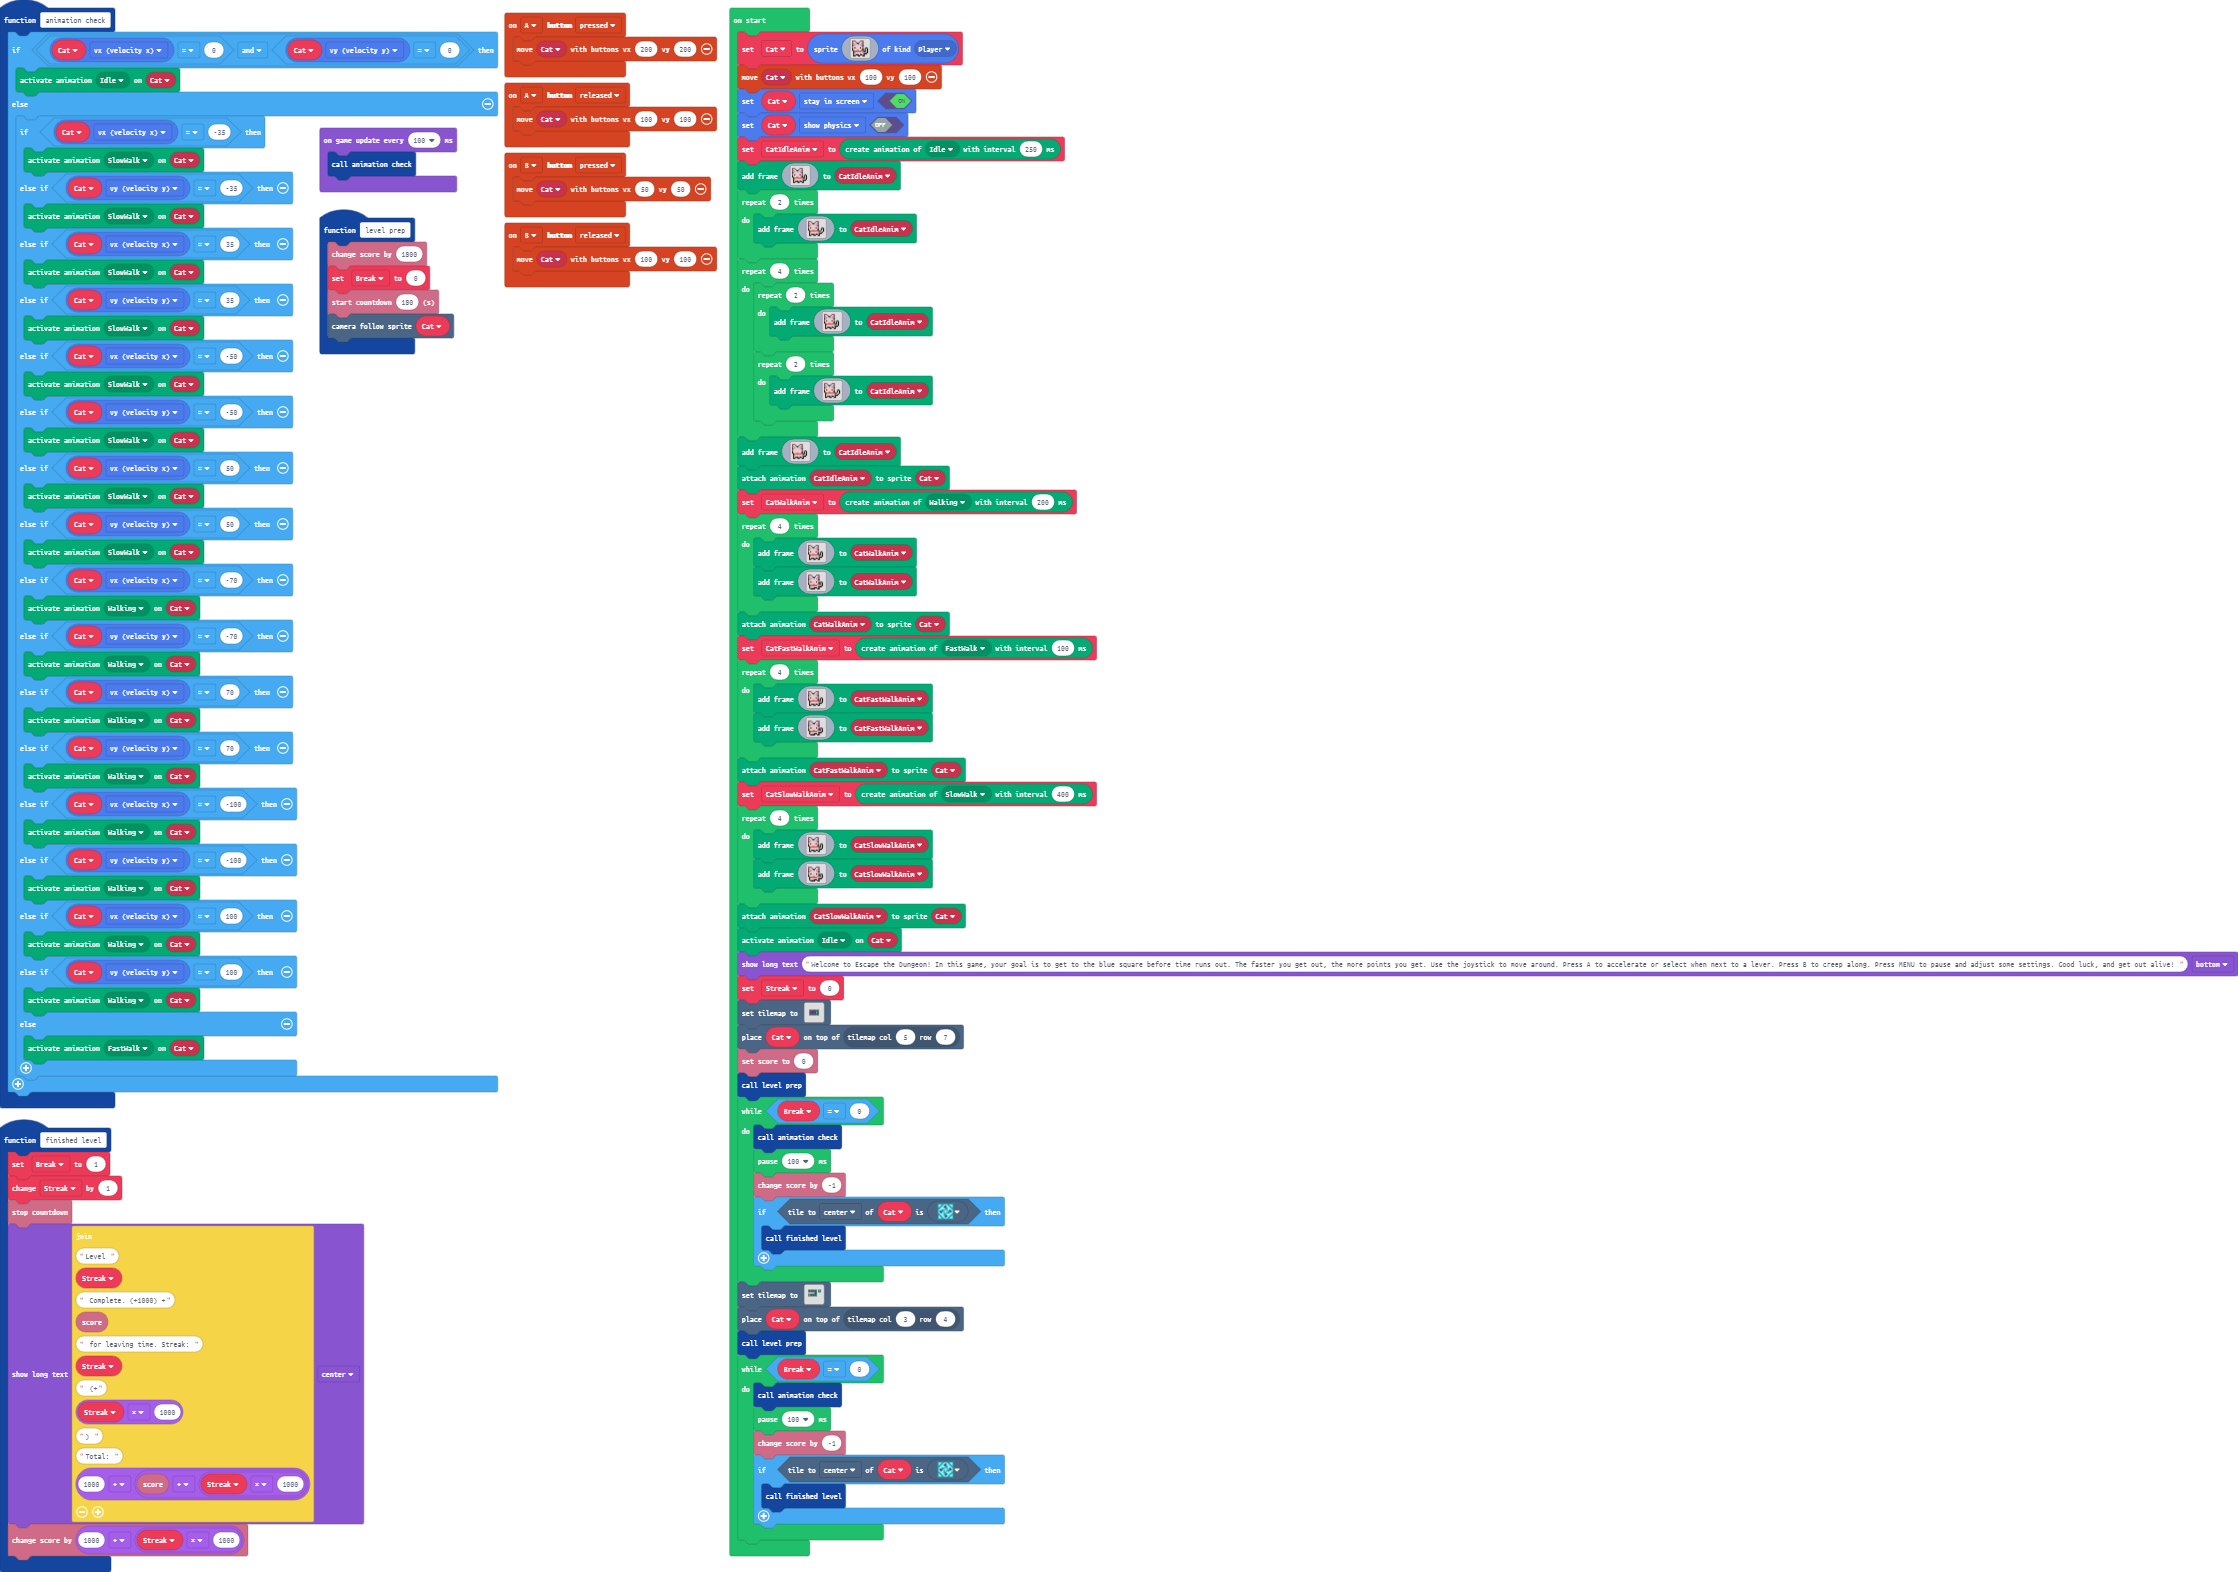
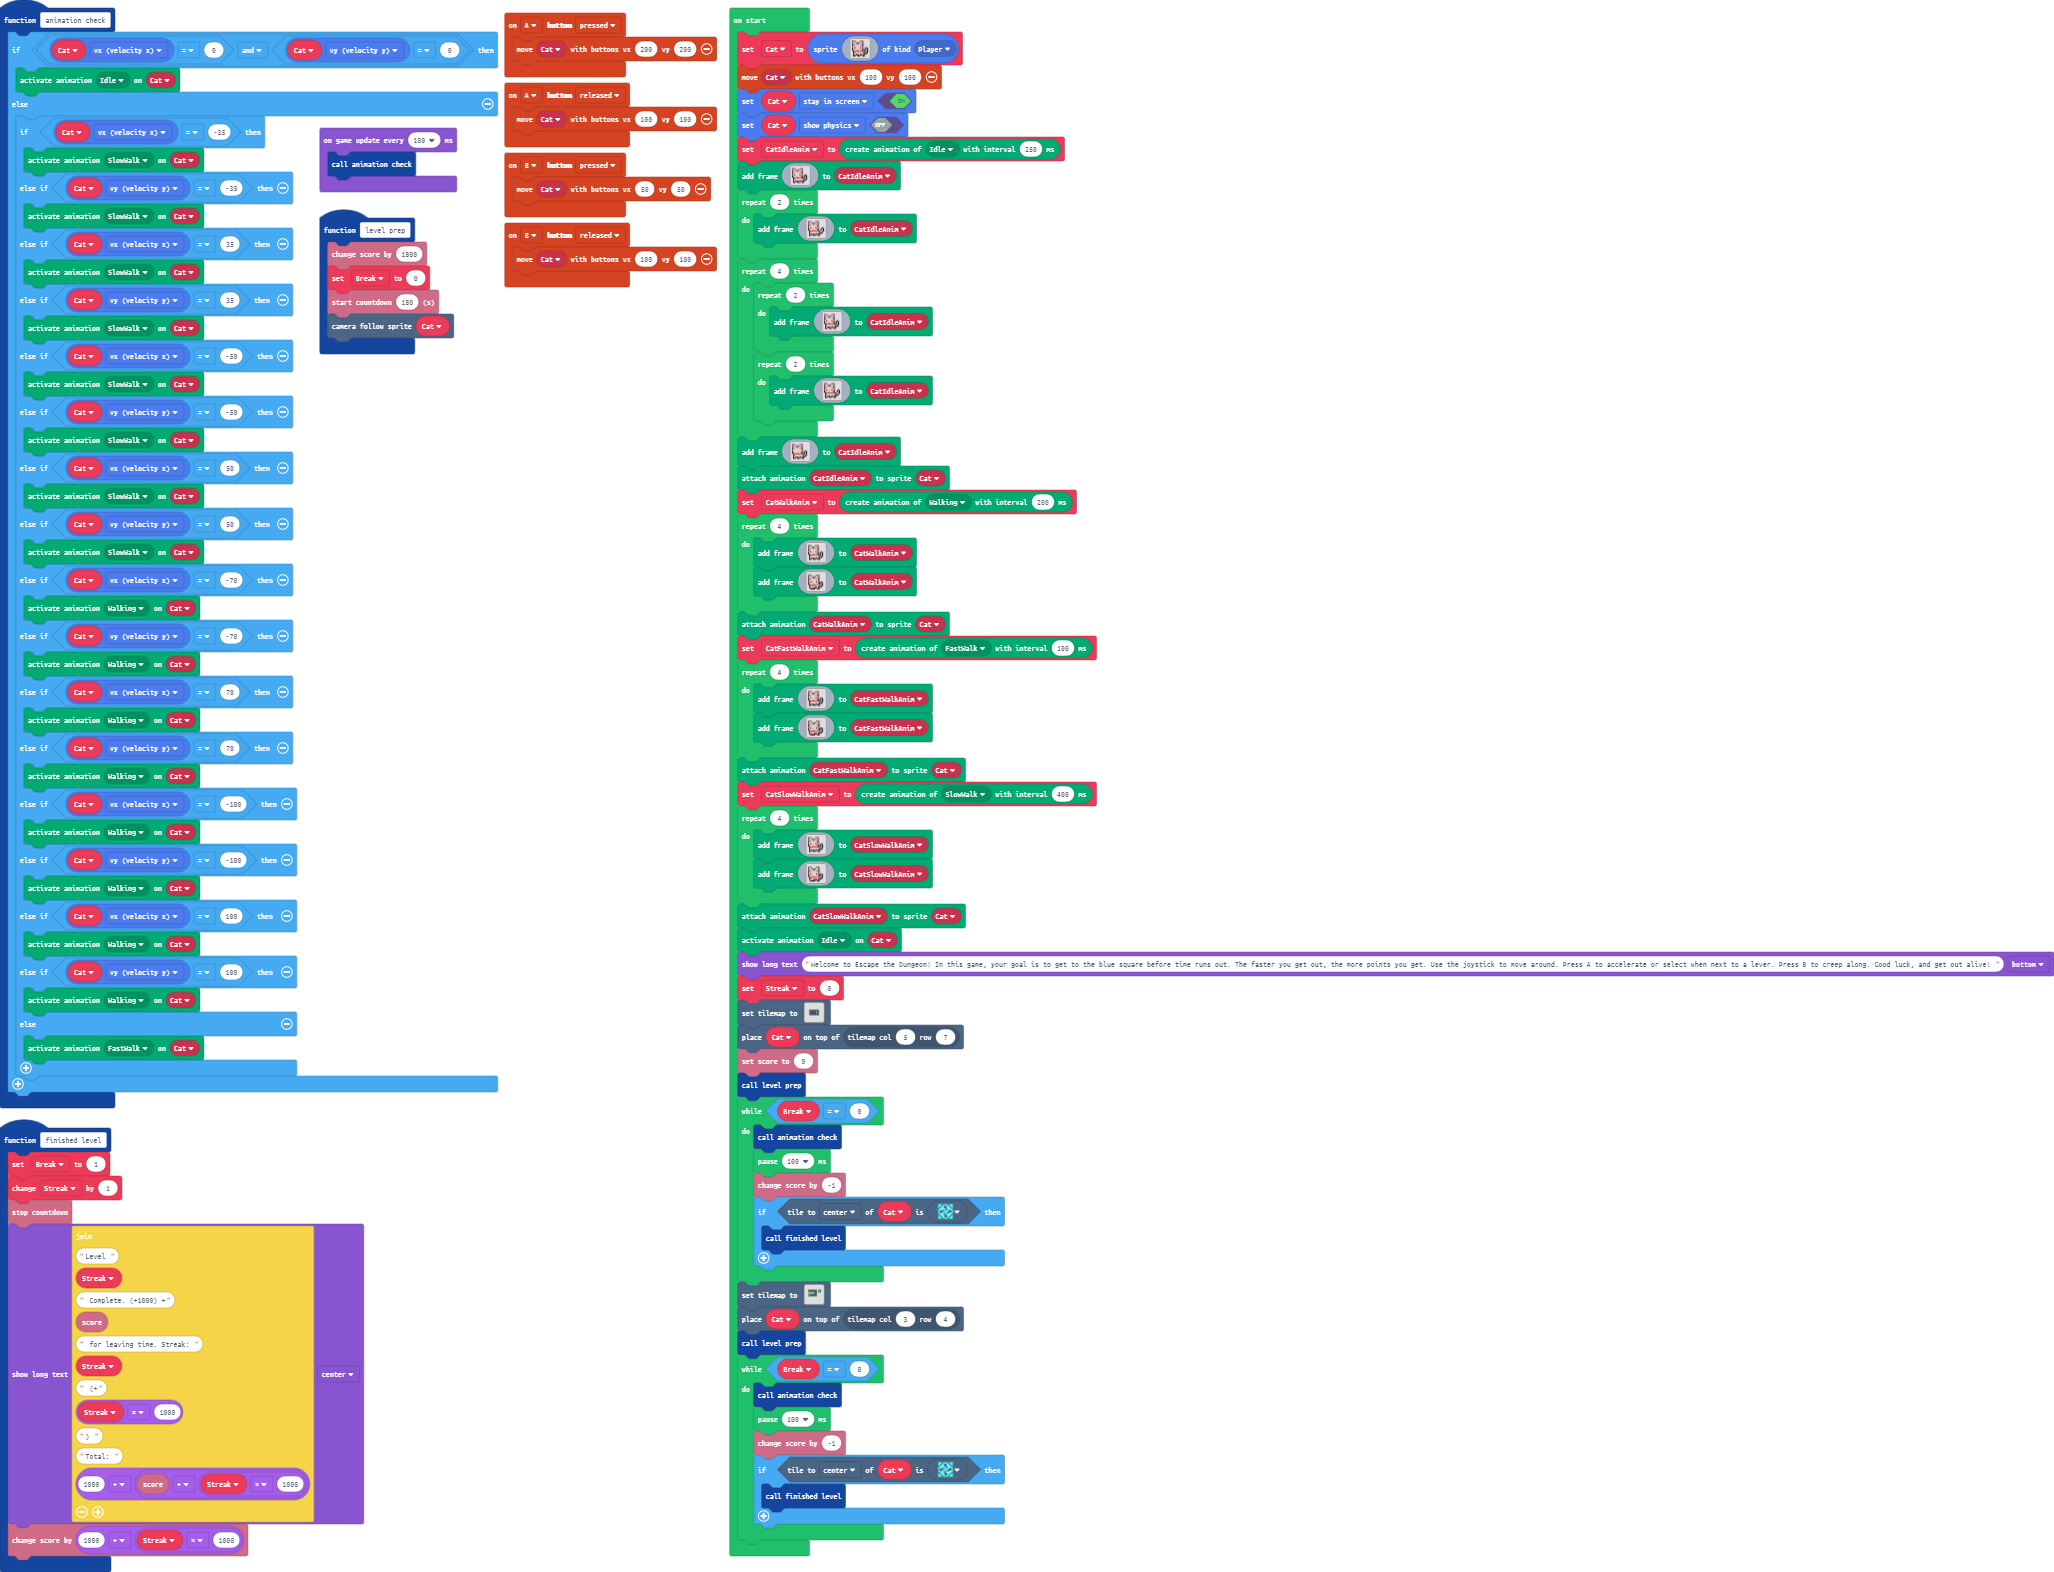
Update main.blocks, main.ts

Changed region(s): [[0.0, 0.0, 0.5297, 0.9975], [0.0, 0.7169, 0.187, 1.0], [0.2181, 0.6858, 0.2493, 0.7169]]

diff --git a/main.ts b/main.ts
@@ -313,7 +313,7 @@ f b d d b b d d 2 b f d f .
 }
 animation.attachAnimation(Cat, CatSlowWalkAnim)
 animation.setAction(Cat, ActionKind.Idle)
-game.showLongText("Welcome to Escape the Dungeon! In this game, your goal is to get to the blue square before time runs out. The faster you get out, the more points you get. Use the joystick to move around. Press A to accelerate or select when next to a lever. Press B to creep along. Press MENU to pause and adjust some settings. Good luck, and get out alive! ", DialogLayout.Bottom)
+game.showLongText("Welcome to Escape the Dungeon! In this game, your goal is to get to the blue square before time runs out. The faster you get out, the more points you get. Use the joystick to move around. Press A to accelerate or select when next to a lever. Press B to creep along. Good luck, and get out alive! ", DialogLayout.Bottom)
 Streak = 0
 tiles.setTilemap(tiles.createTilemap(
[1 lines of base64/hex data omitted]
